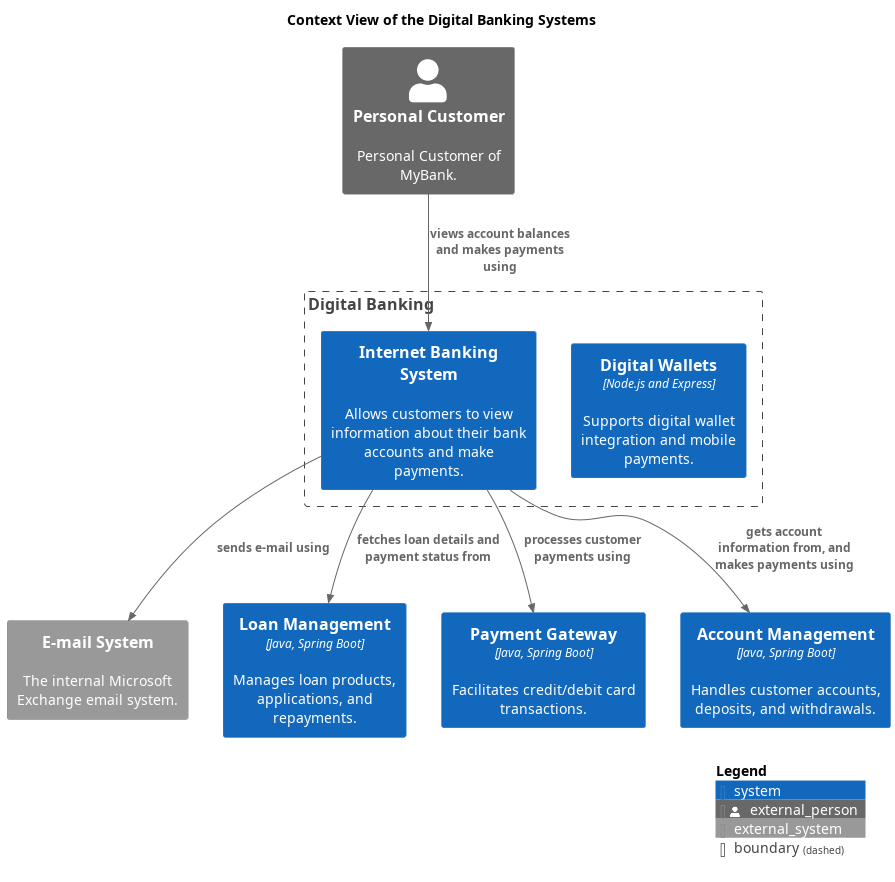
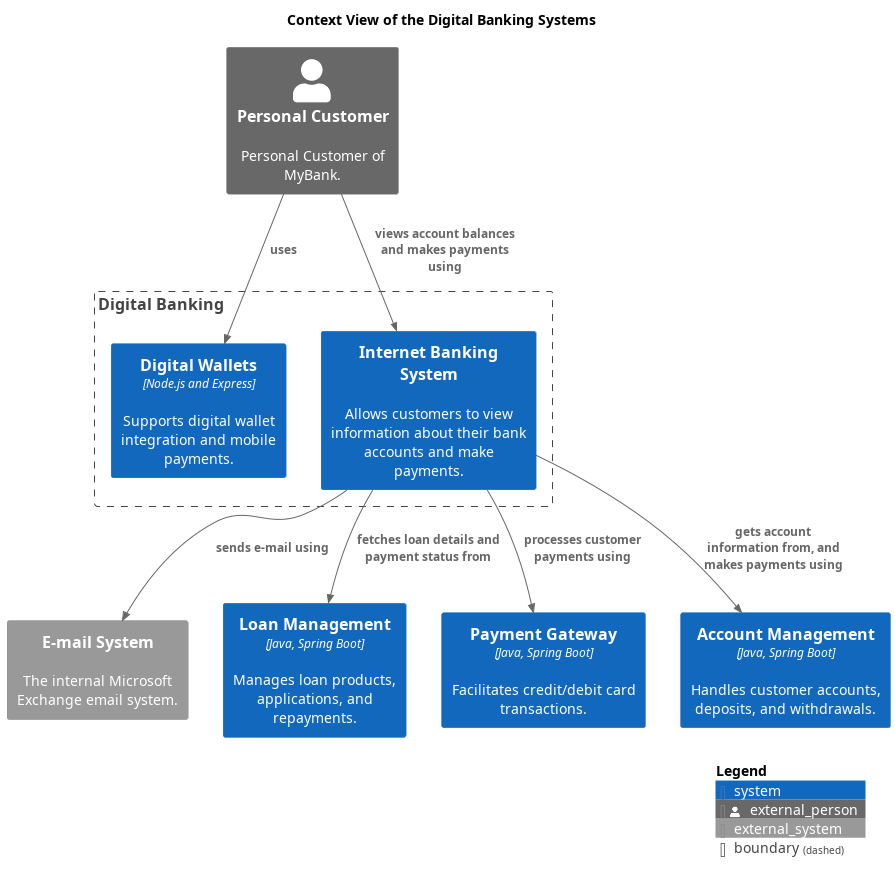
updated models

diff --git a/docs/mybank/model-view.md b/docs/mybank/model-view.md
@@ -197,7 +197,11 @@ Shows the complete model graph
 | [Loan Management](../mybank/core-banking/loan-management-system.md) | retrieves customer account information from | [Account Management](../mybank/core-banking/account-management-system.md) |  |  |
 | [Internet Banking System](../mybank/digital-banking/internet-banking-system/internet-banking-system.md) | sends e-mail using | [E-mail System](../mybank/email-system.md) |  |  |
 | [API Application](../mybank/digital-banking/internet-banking-system/api-application.md) | sends e-mail using | [E-mail System](../mybank/email-system.md) | SMTP |  |
+| [Compliance Manager](../mybank/compliance/compliance-manager.md) | uses | [Compliance System](../mybank/compliance/compliance-system.md) |  | generate compliance reports |
+| [Personal Customer](../mybank/personal-customer.md) | uses | [Digital Wallets](../mybank/digital-banking/digital-wallets-system.md) |  |  |
+| [Fraud specialist](../mybank/compliance/fraud-specialist.md) | uses | [Fraud Detection System](../mybank/compliance/fraud-detection-system.md) |  | generate fraud reports |
 | [Sign In Controller](../mybank/digital-banking/internet-banking-system/sign-in-controller.md) | uses | [Security Component](../mybank/digital-banking/internet-banking-system/security-component.md) |  |  |
+| [Risk Manager](../mybank/compliance/risk-manager.md) | uses | [Risk Management System](../mybank/compliance/risk-management-system.md) |  | generate risk reports |
 | [Personal Customer](../mybank/personal-customer.md) | uses atm for balance information and withdrawals | [ATM](../mybank/customer-channels/atm.md) |  |  |
 | [Reset Password Controller](../mybank/digital-banking/internet-banking-system/reset-password-controller.md) | uses for sending password reset emails | [E-mail Component](../mybank/digital-banking/internet-banking-system/email-component.md) |  |  |
 | [Payment Gateway](../mybank/payment/payment-gateway-system.md) | validates and processes payments using | [Transaction Processing](../mybank/core-banking/transaction-processing-system.md) |  |  |

diff --git a/docs/mybank/context-view.md b/docs/mybank/context-view.md
@@ -78,6 +78,10 @@ Shows the systems of MyBank
 | [Internet Banking System](../mybank/digital-banking/internet-banking-system/internet-banking-system.md) | processes customer payments using | [Payment Gateway](../mybank/payment/payment-gateway-system.md) |  |  |
 | [Loan Management](../mybank/core-banking/loan-management-system.md) | retrieves customer account information from | [Account Management](../mybank/core-banking/account-management-system.md) |  |  |
 | [Internet Banking System](../mybank/digital-banking/internet-banking-system/internet-banking-system.md) | sends e-mail using | [E-mail System](../mybank/email-system.md) |  |  |
+| [Compliance Manager](../mybank/compliance/compliance-manager.md) | uses | [Compliance System](../mybank/compliance/compliance-system.md) |  | generate compliance reports |
+| [Personal Customer](../mybank/personal-customer.md) | uses | [Digital Wallets](../mybank/digital-banking/digital-wallets-system.md) |  |  |
+| [Fraud specialist](../mybank/compliance/fraud-specialist.md) | uses | [Fraud Detection System](../mybank/compliance/fraud-detection-system.md) |  | generate fraud reports |
+| [Risk Manager](../mybank/compliance/risk-manager.md) | uses | [Risk Management System](../mybank/compliance/risk-management-system.md) |  | generate risk reports |
 | [Personal Customer](../mybank/personal-customer.md) | uses atm for balance information and withdrawals | [ATM](../mybank/customer-channels/atm.md) |  |  |
 | [Payment Gateway](../mybank/payment/payment-gateway-system.md) | validates and processes payments using | [Transaction Processing](../mybank/core-banking/transaction-processing-system.md) |  |  |
 | [Personal Customer](../mybank/personal-customer.md) | views account balances and makes payments using | [Internet Banking System](../mybank/digital-banking/internet-banking-system/internet-banking-system.md) |  |  |

diff --git a/docs/mybank/digital-banking/container-view.md b/docs/mybank/digital-banking/container-view.md
@@ -35,6 +35,7 @@ Shows the systems and containers of the domain digital banking and their relatio
 | [Mobile App](../../mybank/digital-banking/internet-banking-system/mobile-app.md) | makes API calls to | [API Application](../../mybank/digital-banking/internet-banking-system/api-application.md) | Transit/HTTPS |  |
 | [API Application](../../mybank/digital-banking/internet-banking-system/api-application.md) | reads from and writes to | [Database](../../mybank/digital-banking/internet-banking-system/database.md) | Datalog |  |
 | [API Application](../../mybank/digital-banking/internet-banking-system/api-application.md) | sends e-mail using | [E-mail System](../../mybank/email-system.md) | SMTP |  |
+| [Personal Customer](../../mybank/personal-customer.md) | uses | [Digital Wallets](../../mybank/digital-banking/digital-wallets-system.md) |  |  |
 | [Personal Customer](../../mybank/personal-customer.md) | views account balances and makes payments using | [Single-Page Application](../../mybank/digital-banking/internet-banking-system/single-page-app.md) |  |  |
 | [Personal Customer](../../mybank/personal-customer.md) | views account balances and makes payments using | [Mobile App](../../mybank/digital-banking/internet-banking-system/mobile-app.md) |  |  |
 | [Personal Customer](../../mybank/personal-customer.md) | visits mybank.com via browser | [Web Application](../../mybank/digital-banking/internet-banking-system/web-app.md) | HTTPS |  |

diff --git a/docs/mybank/digital-banking/context-view.md b/docs/mybank/digital-banking/context-view.md
@@ -28,6 +28,7 @@ Shows the systems of the domain Digital Banking and their relations.
 | [Internet Banking System](../../mybank/digital-banking/internet-banking-system/internet-banking-system.md) | gets account information from, and makes payments using | [Account Management](../../mybank/core-banking/account-management-system.md) |  |  |
 | [Internet Banking System](../../mybank/digital-banking/internet-banking-system/internet-banking-system.md) | processes customer payments using | [Payment Gateway](../../mybank/payment/payment-gateway-system.md) |  |  |
 | [Internet Banking System](../../mybank/digital-banking/internet-banking-system/internet-banking-system.md) | sends e-mail using | [E-mail System](../../mybank/email-system.md) |  |  |
+| [Personal Customer](../../mybank/personal-customer.md) | uses | [Digital Wallets](../../mybank/digital-banking/digital-wallets-system.md) |  |  |
 | [Personal Customer](../../mybank/personal-customer.md) | views account balances and makes payments using | [Internet Banking System](../../mybank/digital-banking/internet-banking-system/internet-banking-system.md) |  |  |
 
 ## Navigation

diff --git a/docs/mybank/compliance/container-view.md b/docs/mybank/compliance/container-view.md
@@ -27,6 +27,9 @@ Shows the systems and containers of the domain Compliance and Risk Management an
 | From | Name | To | Technology | Description |
 |---|---|---|---|---|
 | [Risk Management System](../../mybank/compliance/risk-management-system.md) | fetches transaction history and customer data from | [Transaction Processing](../../mybank/core-banking/transaction-processing-system.md) |  |  |
+| [Compliance Manager](../../mybank/compliance/compliance-manager.md) | uses | [Compliance System](../../mybank/compliance/compliance-system.md) |  | generate compliance reports |
+| [Fraud specialist](../../mybank/compliance/fraud-specialist.md) | uses | [Fraud Detection System](../../mybank/compliance/fraud-detection-system.md) |  | generate fraud reports |
+| [Risk Manager](../../mybank/compliance/risk-manager.md) | uses | [Risk Management System](../../mybank/compliance/risk-management-system.md) |  | generate risk reports |
 
 ## Other Relationships
 | From | Name | To | Description |

diff --git a/docs/mybank/compliance/context-view.md b/docs/mybank/compliance/context-view.md
@@ -27,6 +27,9 @@ Shows the systems of the domain Compliance and Risk Management and their relatio
 | From | Name | To | Technology | Description |
 |---|---|---|---|---|
 | [Risk Management System](../../mybank/compliance/risk-management-system.md) | fetches transaction history and customer data from | [Transaction Processing](../../mybank/core-banking/transaction-processing-system.md) |  |  |
+| [Compliance Manager](../../mybank/compliance/compliance-manager.md) | uses | [Compliance System](../../mybank/compliance/compliance-system.md) |  | generate compliance reports |
+| [Fraud specialist](../../mybank/compliance/fraud-specialist.md) | uses | [Fraud Detection System](../../mybank/compliance/fraud-detection-system.md) |  | generate fraud reports |
+| [Risk Manager](../../mybank/compliance/risk-manager.md) | uses | [Risk Management System](../../mybank/compliance/risk-management-system.md) |  | generate risk reports |
 
 ## Other Relationships
 | From | Name | To | Description |

diff --git a/docs/mybank/personal-customer.md b/docs/mybank/personal-customer.md
@@ -16,6 +16,7 @@ Personal Customer of MyBank.
 ## Outgoing Synchronous Requests 
 | From | Name | To | Technology | Description |
 |---|---|---|---|---|
+| [Personal Customer](../mybank/personal-customer.md) | uses | [Digital Wallets](../mybank/digital-banking/digital-wallets-system.md) |  |  |
 | [Personal Customer](../mybank/personal-customer.md) | uses atm for balance information and withdrawals | [ATM](../mybank/customer-channels/atm.md) |  |  |
 | [Personal Customer](../mybank/personal-customer.md) | views account balances and makes payments using | [Single-Page Application](../mybank/digital-banking/internet-banking-system/single-page-app.md) |  |  |
 | [Personal Customer](../mybank/personal-customer.md) | views account balances and makes payments using | [Internet Banking System](../mybank/digital-banking/internet-banking-system/internet-banking-system.md) |  |  |

diff --git a/docs/mybank/compliance/compliance-system.md b/docs/mybank/compliance/compliance-system.md
@@ -12,6 +12,10 @@ Java, Spring Boot
 | From | Name | To | Description |
 |---|---|---|---|
 | [Backoffice Staff](../../mybank/core-banking/backoffice-staff.md) | assesses customer risk for loan approval using | [Compliance System](../../mybank/compliance/compliance-system.md) |  |
+## Incoming Synchronous Requests 
+| From | Name | To | Technology | Description |
+|---|---|---|---|---|
+| [Compliance Manager](../../mybank/compliance/compliance-manager.md) | uses | [Compliance System](../../mybank/compliance/compliance-system.md) |  | generate compliance reports |
 
 ## System Context View
 ![Context View of the Compliance and Risk Management Systems](../../mybank/compliance/context-view.png)

diff --git a/docs/mybank/compliance/fraud-detection-system.md b/docs/mybank/compliance/fraud-detection-system.md
@@ -8,6 +8,10 @@ Detects and mitigates fraudulent activities.
 
 ## Technology
 Python, TensorFlow
+## Incoming Synchronous Requests 
+| From | Name | To | Technology | Description |
+|---|---|---|---|---|
+| [Fraud specialist](../../mybank/compliance/fraud-specialist.md) | uses | [Fraud Detection System](../../mybank/compliance/fraud-detection-system.md) |  | generate fraud reports |
 
 ## System Context View
 ![Context View of the Compliance and Risk Management Systems](../../mybank/compliance/context-view.png)

diff --git a/docs/mybank/digital-banking/digital-wallets-system.md b/docs/mybank/digital-banking/digital-wallets-system.md
@@ -8,6 +8,10 @@ Supports digital wallet integration and mobile payments.
 
 ## Technology
 Node.js and Express
+## Incoming Synchronous Requests 
+| From | Name | To | Technology | Description |
+|---|---|---|---|---|
+| [Personal Customer](../../mybank/personal-customer.md) | uses | [Digital Wallets](../../mybank/digital-banking/digital-wallets-system.md) |  |  |
 
 ## System Context View
 ![Context View of the Digital Banking Systems](../../mybank/digital-banking/context-view.png)

diff --git a/docs/mybank/compliance/risk-management-system.md b/docs/mybank/compliance/risk-management-system.md
@@ -8,6 +8,10 @@ Detects risks and manages risk mitigation.
 
 ## Technology
 Java, Spring Boot
+## Incoming Synchronous Requests 
+| From | Name | To | Technology | Description |
+|---|---|---|---|---|
+| [Risk Manager](../../mybank/compliance/risk-manager.md) | uses | [Risk Management System](../../mybank/compliance/risk-management-system.md) |  | generate risk reports |
 ## Outgoing Synchronous Requests 
 | From | Name | To | Technology | Description |
 |---|---|---|---|---|

diff --git a/docs/mybank/compliance/fraud-specialist.md b/docs/mybank/compliance/fraud-specialist.md
@@ -8,6 +8,10 @@ Responsible for the fraud detection and mitigation of MyBank.
 | Org-unit | Description |
 |---|---|
 | [Fraud](../../mybank/compliance/fraud.md)|  |
+## Outgoing Synchronous Requests 
+| From | Name | To | Technology | Description |
+|---|---|---|---|---|
+| [Fraud specialist](../../mybank/compliance/fraud-specialist.md) | uses | [Fraud Detection System](../../mybank/compliance/fraud-detection-system.md) |  | generate fraud reports |
 
 
 ## Navigation
